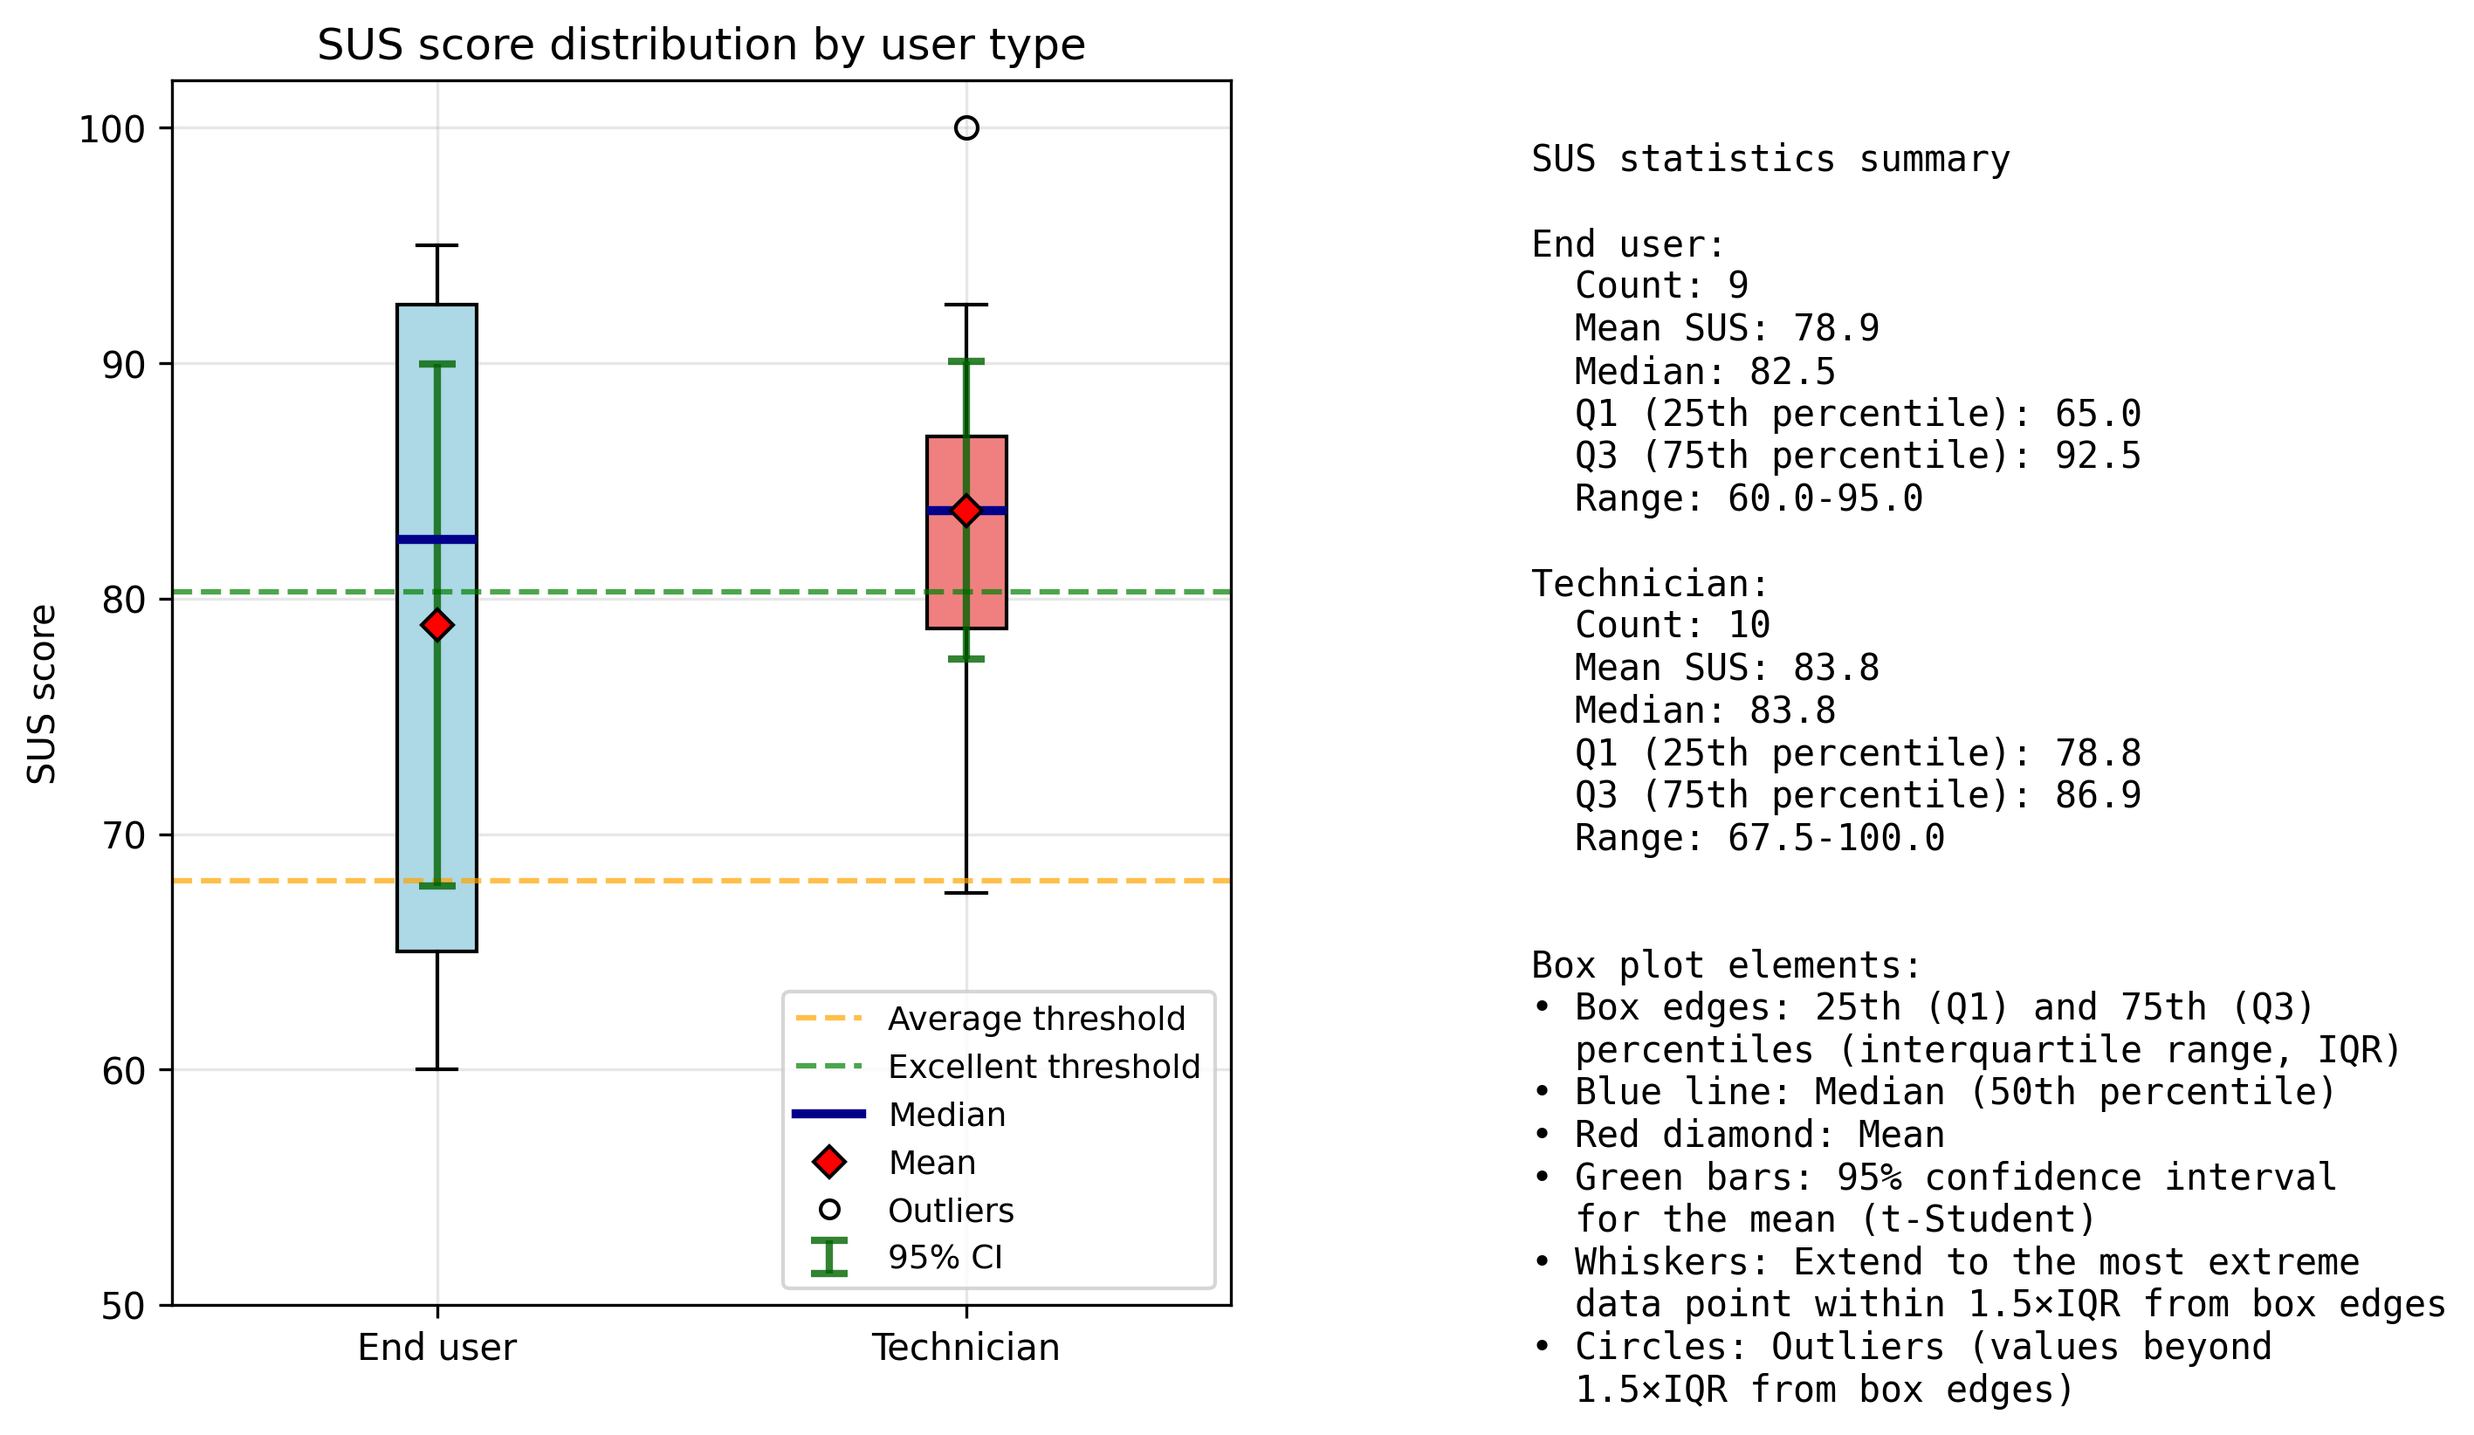
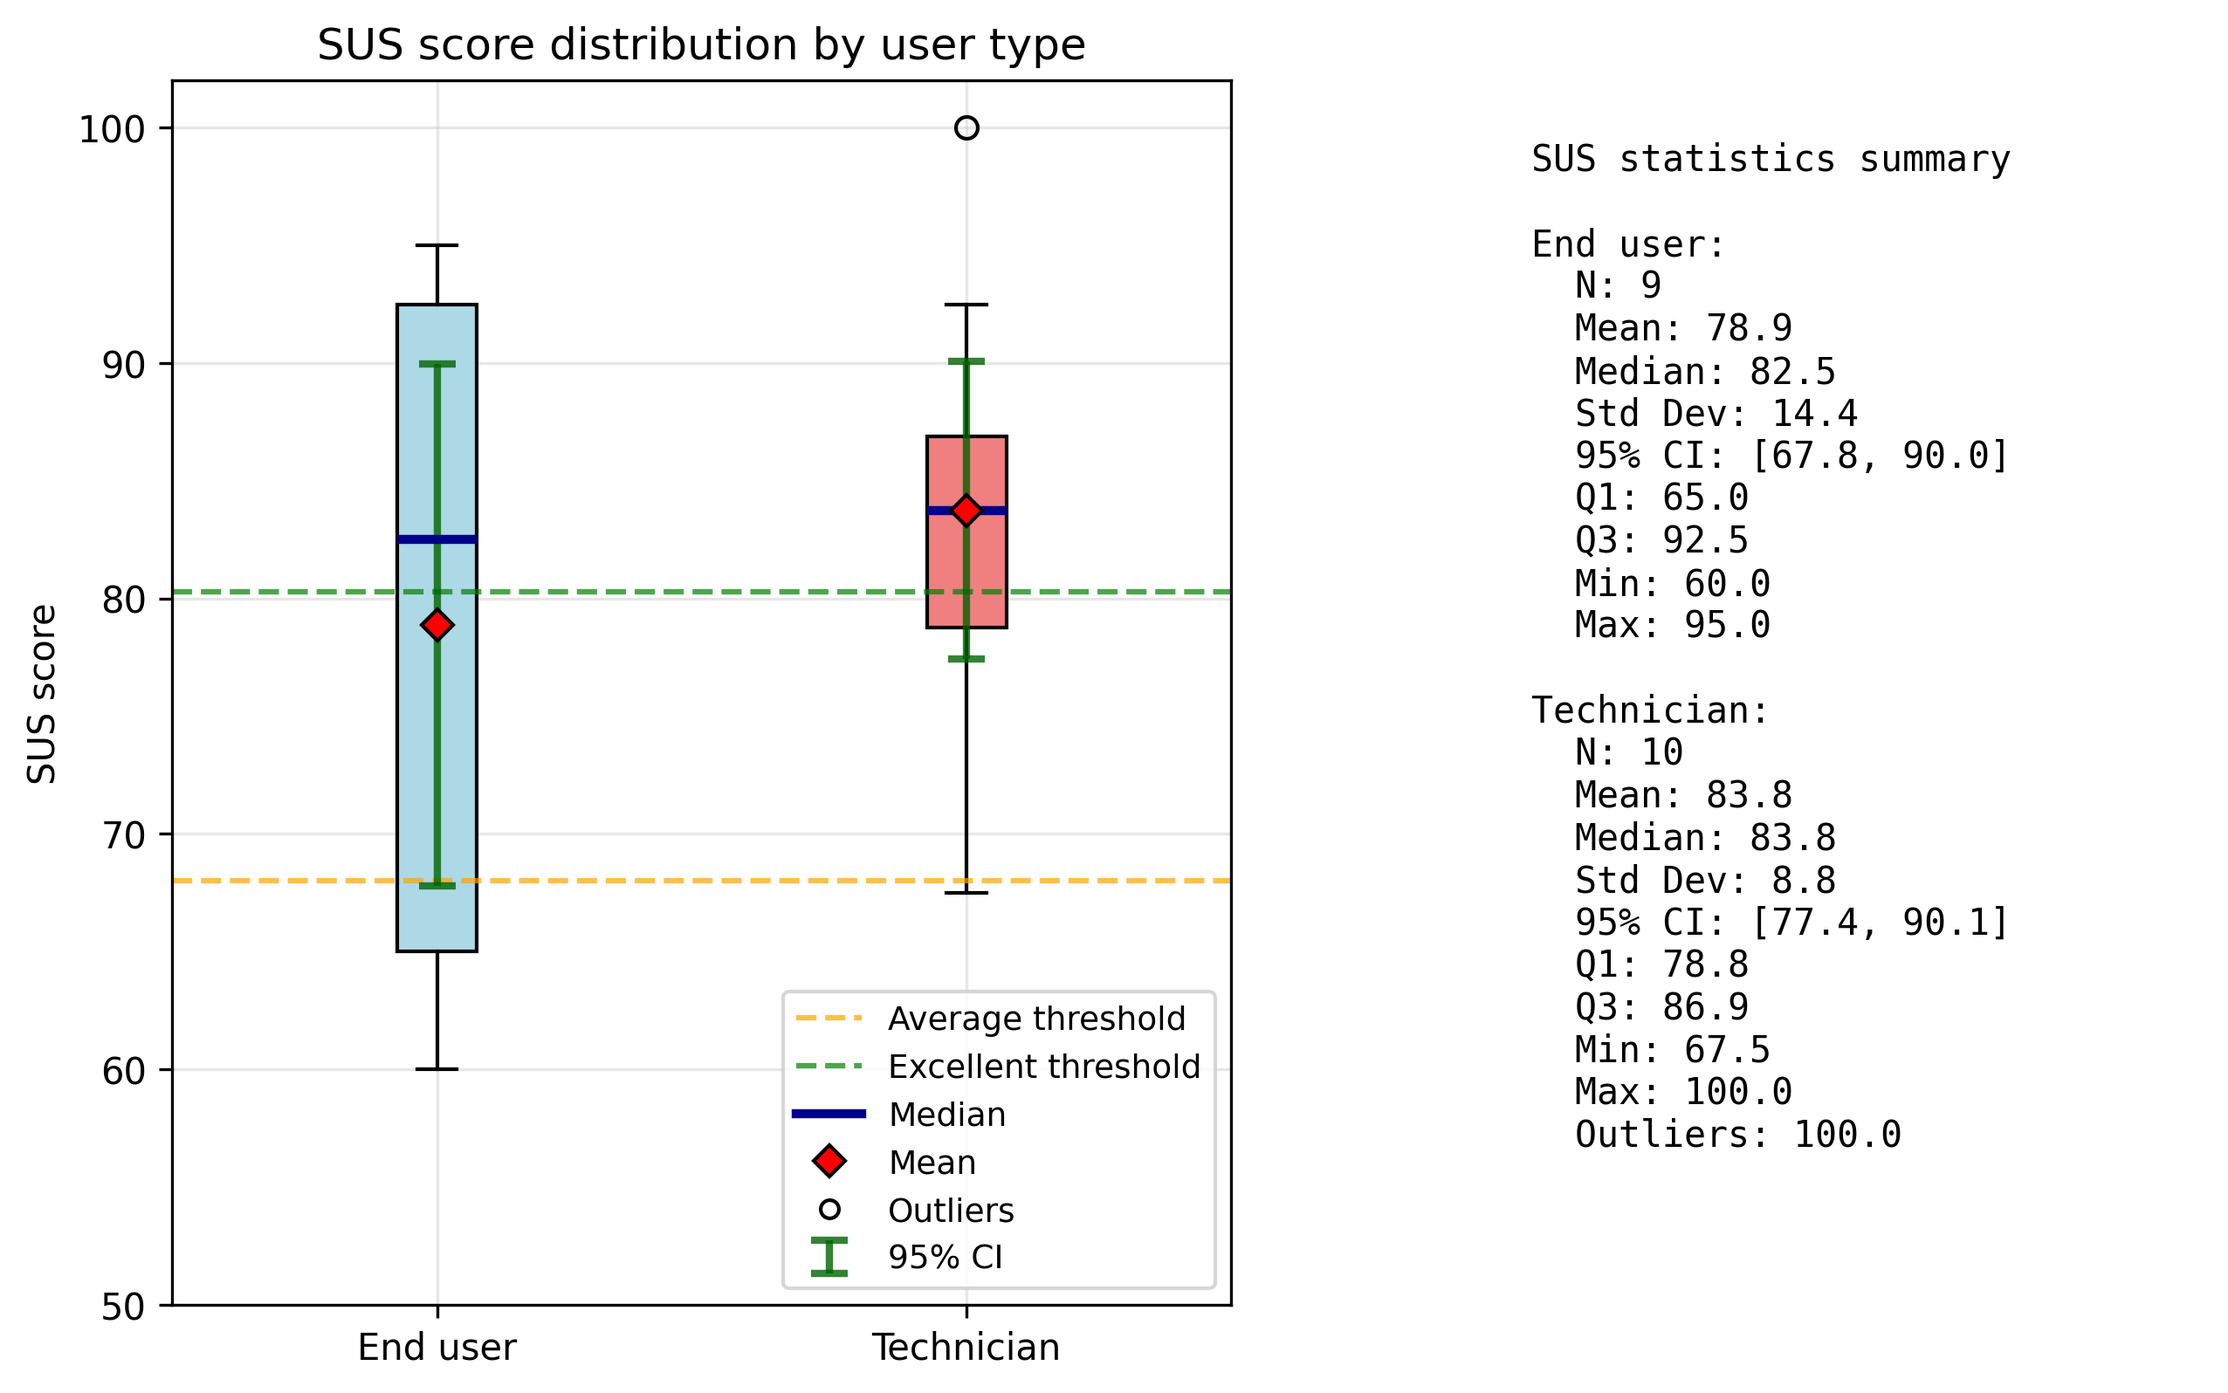
user-testing: enhance boxplot statistics and improve layout
- Add compact_outliers() function to intelligently group repeated outliers
- Enrich boxplot statistics with std dev, 95% CI, min/max, and compacted outliers
- Remove "boxplot elements" text section from plots
- Refactor task duration plots to vertical layout (plot above, stats below in columns)
- Split task duration visualizations into separate files per user type

diff --git a/user_testing/analysis_software/task_plots.py b/user_testing/analysis_software/task_plots.py
@@ -7,7 +7,7 @@ from matplotlib import patheffects as pe
 import numpy as np
 import pandas as pd
 
-from stats_utils import get_boxplot_legend_text
+from stats_utils import compact_outliers
 
 
 def load_duration_statistics(repo_root: Path) -> dict:
@@ -214,16 +214,8 @@ def plot_duration_distributions(df: pd.DataFrame, duration_stats: dict, output_d
         'technician': 'lightcoral'
     }
 
-    # Create figure with vertical layout (one row per user type)
-    # Each row has: plot (left) + statistics (right)
-    fig = plt.figure(figsize=(10, 5 * n_user_types))
-    gs = fig.add_gridspec(n_user_types, 2, width_ratios=[1.5, 1], wspace=0.3,
-                         hspace=0.3, top=0.95, bottom=0.05)
-
-    for i, user_type in enumerate(user_types):
-        ax_plot = fig.add_subplot(gs[i, 0])
-        ax_stats = fig.add_subplot(gs[i, 1])
-
+    # Create separate figure for each user type
+    for user_type in user_types:
         ut_df = duration_df[duration_df['user_type'] == user_type].copy()
 
         # Order tasks by execution order if available
@@ -234,13 +226,13 @@ def plot_duration_distributions(df: pd.DataFrame, duration_stats: dict, output_d
         else:
             task_keys = sorted(ut_df['task_key'].unique().tolist())
 
-        # Prepare data for box plot
+        # Prepare data for box plot and statistics
         box_data = []
         labels = []
         means = []
         ci_lowers = []
         ci_uppers = []
-        stats_lines = ["Duration statistics", ""]
+        task_stats_list = []
 
         for task_key in task_keys:
             task_durations = ut_df[ut_df['task_key'] == task_key]['actual_duration_minutes'].values
@@ -259,29 +251,54 @@ def plot_duration_distributions(df: pd.DataFrame, duration_stats: dict, output_d
                 ci_lowers.append(ci_lower)
                 ci_uppers.append(ci_upper)
 
-                # Add statistics for this task
+                # Calculate statistics for this task
                 median_val = np.median(task_durations)
                 q1 = np.percentile(task_durations, 25)
                 q3 = np.percentile(task_durations, 75)
-                stats_lines.append(f"{task_label}:")
-                stats_lines.append(f"  Count: {len(task_durations)}")
-                stats_lines.append(f"  Mean: {np.mean(task_durations):.1f} min")
-                stats_lines.append(f"  Median: {median_val:.1f} min")
-                stats_lines.append(f"  Q1: {q1:.1f} min")
-                stats_lines.append(f"  Q3: {q3:.1f} min")
-                stats_lines.append("")
+                std_val = np.std(task_durations, ddof=1) if len(task_durations) > 1 else 0
+                min_val = np.min(task_durations)
+                max_val = np.max(task_durations)
+
+                # Calculate outliers (values beyond 1.5×IQR from box edges)
+                iqr = q3 - q1
+                lower_bound = q1 - 1.5 * iqr
+                upper_bound = q3 + 1.5 * iqr
+                outliers = [x for x in task_durations if x < lower_bound or x > upper_bound]
+                outliers_str = compact_outliers(outliers)
+
+                # Store statistics for this task
+                task_stats_list.append({
+                    'label': task_label,
+                    'n': len(task_durations),
+                    'mean': mean_val,
+                    'median': median_val,
+                    'std': std_val,
+                    'ci_lower': ci_lower,
+                    'ci_upper': ci_upper,
+                    'q1': q1,
+                    'q3': q3,
+                    'min': min_val,
+                    'max': max_val,
+                    'outliers_str': outliers_str
+                })
 
         if not box_data:
             continue
 
-        # Create box plot with blue median line
+        # Create figure with plot above and statistics below
+        n_tasks = len(box_data)
+        fig = plt.figure(figsize=(max(10, 3 * n_tasks), 8))
+        gs = fig.add_gridspec(2, 1, height_ratios=[2, 1], hspace=0.35)
+
+        # Create box plot
+        ax_plot = fig.add_subplot(gs[0, 0])
         bp = ax_plot.boxplot(box_data, tick_labels=labels, patch_artist=True,
                             showmeans=True, meanline=False,
                             medianprops=dict(color='darkblue', linewidth=2.5),
                             meanprops=dict(marker='D', markerfacecolor='red',
                                          markeredgecolor='black', markersize=6))
 
-        # Color boxes based on user type (consistent with SUS)
+        # Color boxes based on user type
         box_color = user_type_colors[user_type]
         for patch in bp['boxes']:
             patch.set_facecolor(box_color)
@@ -301,13 +318,12 @@ def plot_duration_distributions(df: pd.DataFrame, duration_stats: dict, output_d
                     markeredgecolor='black', markersize=6, label='Mean')
         ax_plot.plot([], [], marker='o', markerfacecolor='none', markeredgecolor='black',
                     linestyle='None', markersize=5, label='Outliers')
-        # Position legend based on user type to avoid outlier overlap
+
+        # Position legend
         if 'end' in user_type.lower():
-            # End user: above plot with more padding from top edge
             ax_plot.legend(loc='upper center', bbox_to_anchor=(0.5, 0.98), ncol=2,
                           frameon=True, fontsize=9)
         else:
-            # Technician: upper left with padding from edges
             ax_plot.legend(loc='upper left', bbox_to_anchor=(0.02, 0.98), ncol=2,
                           frameon=True, fontsize=9)
 
@@ -317,22 +333,48 @@ def plot_duration_distributions(df: pd.DataFrame, duration_stats: dict, output_d
         ax_plot.set_xticklabels(labels, rotation=30, ha='right')
         ax_plot.grid(True, alpha=0.3, axis='y')
 
-        # Add box plot legend only in the last panel
-        if i == n_user_types - 1:
-            stats_lines.append("")
-            legend_text = get_boxplot_legend_text()
-            stats_lines.extend(legend_text.split("\n"))
-
-        # Add statistics panel with box plot legend
+        # Add statistics panel below with columns
+        ax_stats = fig.add_subplot(gs[1, 0])
         ax_stats.axis('off')
-        stats_text = "\n".join(stats_lines)
-        ax_stats.text(0.05, 0.95, stats_text, transform=ax_stats.transAxes,
-                     fontsize=10, verticalalignment='top', fontfamily='monospace')
 
-    out = output_dir / "task_duration_distributions.png"
-    fig.savefig(out, dpi=300, bbox_inches='tight', pad_inches=0.3)
-    plt.close(fig)
-    print(f"Saved: {out}")
+        # Arrange statistics in columns (one per task)
+        if n_tasks == 2:
+            positions = [(0.1, 'left'), (0.6, 'left')]
+        elif n_tasks == 3:
+            positions = [(0.05, 'left'), (0.38, 'left'), (0.71, 'left')]
+        elif n_tasks == 4:
+            positions = [(0.02, 'left'), (0.27, 'left'), (0.52, 'left'), (0.77, 'left')]
+        else:
+            # Fallback for other numbers
+            positions = [(i / n_tasks, 'left') for i in range(n_tasks)]
+
+        for idx, task_stat in enumerate(task_stats_list):
+            x_pos, h_align = positions[idx]
+
+            stats_lines = []
+            stats_lines.append(f"{task_stat['label']}:")
+            stats_lines.append(f"N: {task_stat['n']}")
+            stats_lines.append(f"Mean: {task_stat['mean']:.1f} min")
+            stats_lines.append(f"Median: {task_stat['median']:.1f} min")
+            stats_lines.append(f"Std Dev: {task_stat['std']:.1f} min")
+            stats_lines.append(f"95% CI: [{task_stat['ci_lower']:.1f}, {task_stat['ci_upper']:.1f}]")
+            stats_lines.append(f"Q1: {task_stat['q1']:.1f} min")
+            stats_lines.append(f"Q3: {task_stat['q3']:.1f} min")
+            stats_lines.append(f"Min: {task_stat['min']:.1f} min")
+            stats_lines.append(f"Max: {task_stat['max']:.1f} min")
+            if task_stat['outliers_str']:
+                stats_lines.append(f"Outliers: {task_stat['outliers_str']}")
+
+            stats_text = "\n".join(stats_lines)
+            ax_stats.text(x_pos, 0.85, stats_text, transform=ax_stats.transAxes,
+                         fontsize=9, verticalalignment='top', ha=h_align,
+                         fontfamily='monospace')
+
+        # Save figure
+        out = output_dir / f"task_duration_distributions_{user_type}.png"
+        fig.savefig(out, dpi=300, bbox_inches='tight', pad_inches=0.3)
+        plt.close(fig)
+        print(f"Saved: {out}")
 
 def _draw_heatmap(ax: plt.Axes, matrix: np.ndarray, row_labels: List[str], col_labels: List[str], title: str, cmap: str, vmin: float = None, vmax: float = None):
     im = ax.imshow(matrix, aspect='auto', cmap=cmap, vmin=vmin, vmax=vmax)

diff --git a/user_testing/analysis_software/sus_calculator.py b/user_testing/analysis_software/sus_calculator.py
@@ -13,7 +13,7 @@ import matplotlib.pyplot as plt
 import numpy as np
 import pandas as pd
 
-from stats_utils import calculate_mean_confidence_interval, get_boxplot_legend_text
+from stats_utils import calculate_mean_confidence_interval, compact_outliers
 
 
 class SUSCalculator:
@@ -215,7 +215,7 @@ class SUSCalculator:
             color = user_type_colors[user_type]
             patch.set_facecolor(color)
 
-        # 2. Summary statistics table (text-based) with box plot elements below
+        # 2. Summary statistics table (text-based)
         ax2.axis('off')
         stats_lines = ["SUS statistics summary", ""]
         for user_type in user_types:
@@ -226,6 +226,19 @@ class SUSCalculator:
             min_val = user_data.min()
             max_val = user_data.max()
 
+            # Get pre-computed statistics from aggregated_stats
+            ut_stats = aggregated_stats[user_type]
+            std_val = ut_stats['std']
+            ci_lower = ut_stats['ci_95_lower']
+            ci_upper = ut_stats['ci_95_upper']
+
+            # Calculate outliers (values beyond 1.5×IQR from box edges)
+            iqr = q3 - q1
+            lower_bound = q1 - 1.5 * iqr
+            upper_bound = q3 + 1.5 * iqr
+            outliers = [x for x in user_data if x < lower_bound or x > upper_bound]
+            outliers_str = compact_outliers(outliers)
+
             # Map user types to proper labels
             if 'enduser' in user_type.lower():
                 user_type_label = 'End user'
@@ -234,18 +247,18 @@ class SUSCalculator:
             else:
                 user_type_label = user_type.replace('_', ' ').capitalize()
             stats_lines.append(f"{user_type_label}:")
-            stats_lines.append(f"  Count: {len(user_data)}")
-            stats_lines.append(f"  Mean SUS: {user_data.mean():.1f}")
+            stats_lines.append(f"  N: {len(user_data)}")
+            stats_lines.append(f"  Mean: {user_data.mean():.1f}")
             stats_lines.append(f"  Median: {median:.1f}")
-            stats_lines.append(f"  Q1 (25th percentile): {q1:.1f}")
-            stats_lines.append(f"  Q3 (75th percentile): {q3:.1f}")
-            stats_lines.append(f"  Range: {min_val:.1f}-{max_val:.1f}")
+            stats_lines.append(f"  Std Dev: {std_val:.1f}")
+            stats_lines.append(f"  95% CI: [{ci_lower:.1f}, {ci_upper:.1f}]")
+            stats_lines.append(f"  Q1: {q1:.1f}")
+            stats_lines.append(f"  Q3: {q3:.1f}")
+            stats_lines.append(f"  Min: {min_val:.1f}")
+            stats_lines.append(f"  Max: {max_val:.1f}")
+            if outliers_str:
+                stats_lines.append(f"  Outliers: {outliers_str}")
             stats_lines.append("")
-
-        # Add box plot legend directly after statistics
-        stats_lines.append("")
-        legend_text = get_boxplot_legend_text()
-        stats_lines.extend(legend_text.split("\n"))
 
         stats_text = "\n".join(stats_lines)
         ax2.text(0.05, 0.95, stats_text, transform=ax2.transAxes, fontsize=10,

diff --git a/user_testing/analysis_software/stats_utils.py b/user_testing/analysis_software/stats_utils.py
@@ -5,6 +5,7 @@ Common statistical calculations used across different analysis modules
 import numpy as np
 from scipy import stats
 from typing import Tuple
+from collections import Counter
 
 
 def get_boxplot_legend_text() -> str:
@@ -55,3 +56,43 @@ def calculate_mean_confidence_interval(data: np.ndarray, confidence: float = 0.9
     ci_upper = float(ci[1])
 
     return (mean_val, ci_lower, ci_upper)
+
+
+def compact_outliers(outliers: list, max_unique: int = 10) -> str:
+    """Compact outliers by grouping repeated values with intelligent precision reduction.
+
+    Args:
+        outliers: List of outlier values
+        max_unique: Maximum number of unique values before reducing precision
+
+    Returns:
+        Formatted string with compacted outliers, e.g., "1.5 (×2), 3.0"
+        Returns None if no outliers
+    """
+
+    if not outliers:
+        return None
+
+    # Try different precision levels until we get few enough unique values
+    for decimals in [1, 0]:
+        rounded_outliers = [round(o, decimals) for o in outliers]
+        outlier_counts = Counter(rounded_outliers)
+        if len(outlier_counts) <= max_unique:
+            break
+    else:
+        # If still too many, round to nearest 10
+        rounded_outliers = [round(o / 10) * 10 for o in outliers]
+        outlier_counts = Counter(rounded_outliers)
+        decimals = 0
+
+    # Format output based on precision used
+    if decimals == 1:
+        return ", ".join([
+            f"{val:.1f} (×{count})" if count > 1 else f"{val:.1f}"
+            for val, count in sorted(outlier_counts.items())
+        ])
+    else:
+        return ", ".join([
+            f"{int(val)} (×{count})" if count > 1 else f"{int(val)}"
+            for val, count in sorted(outlier_counts.items())
+        ])
